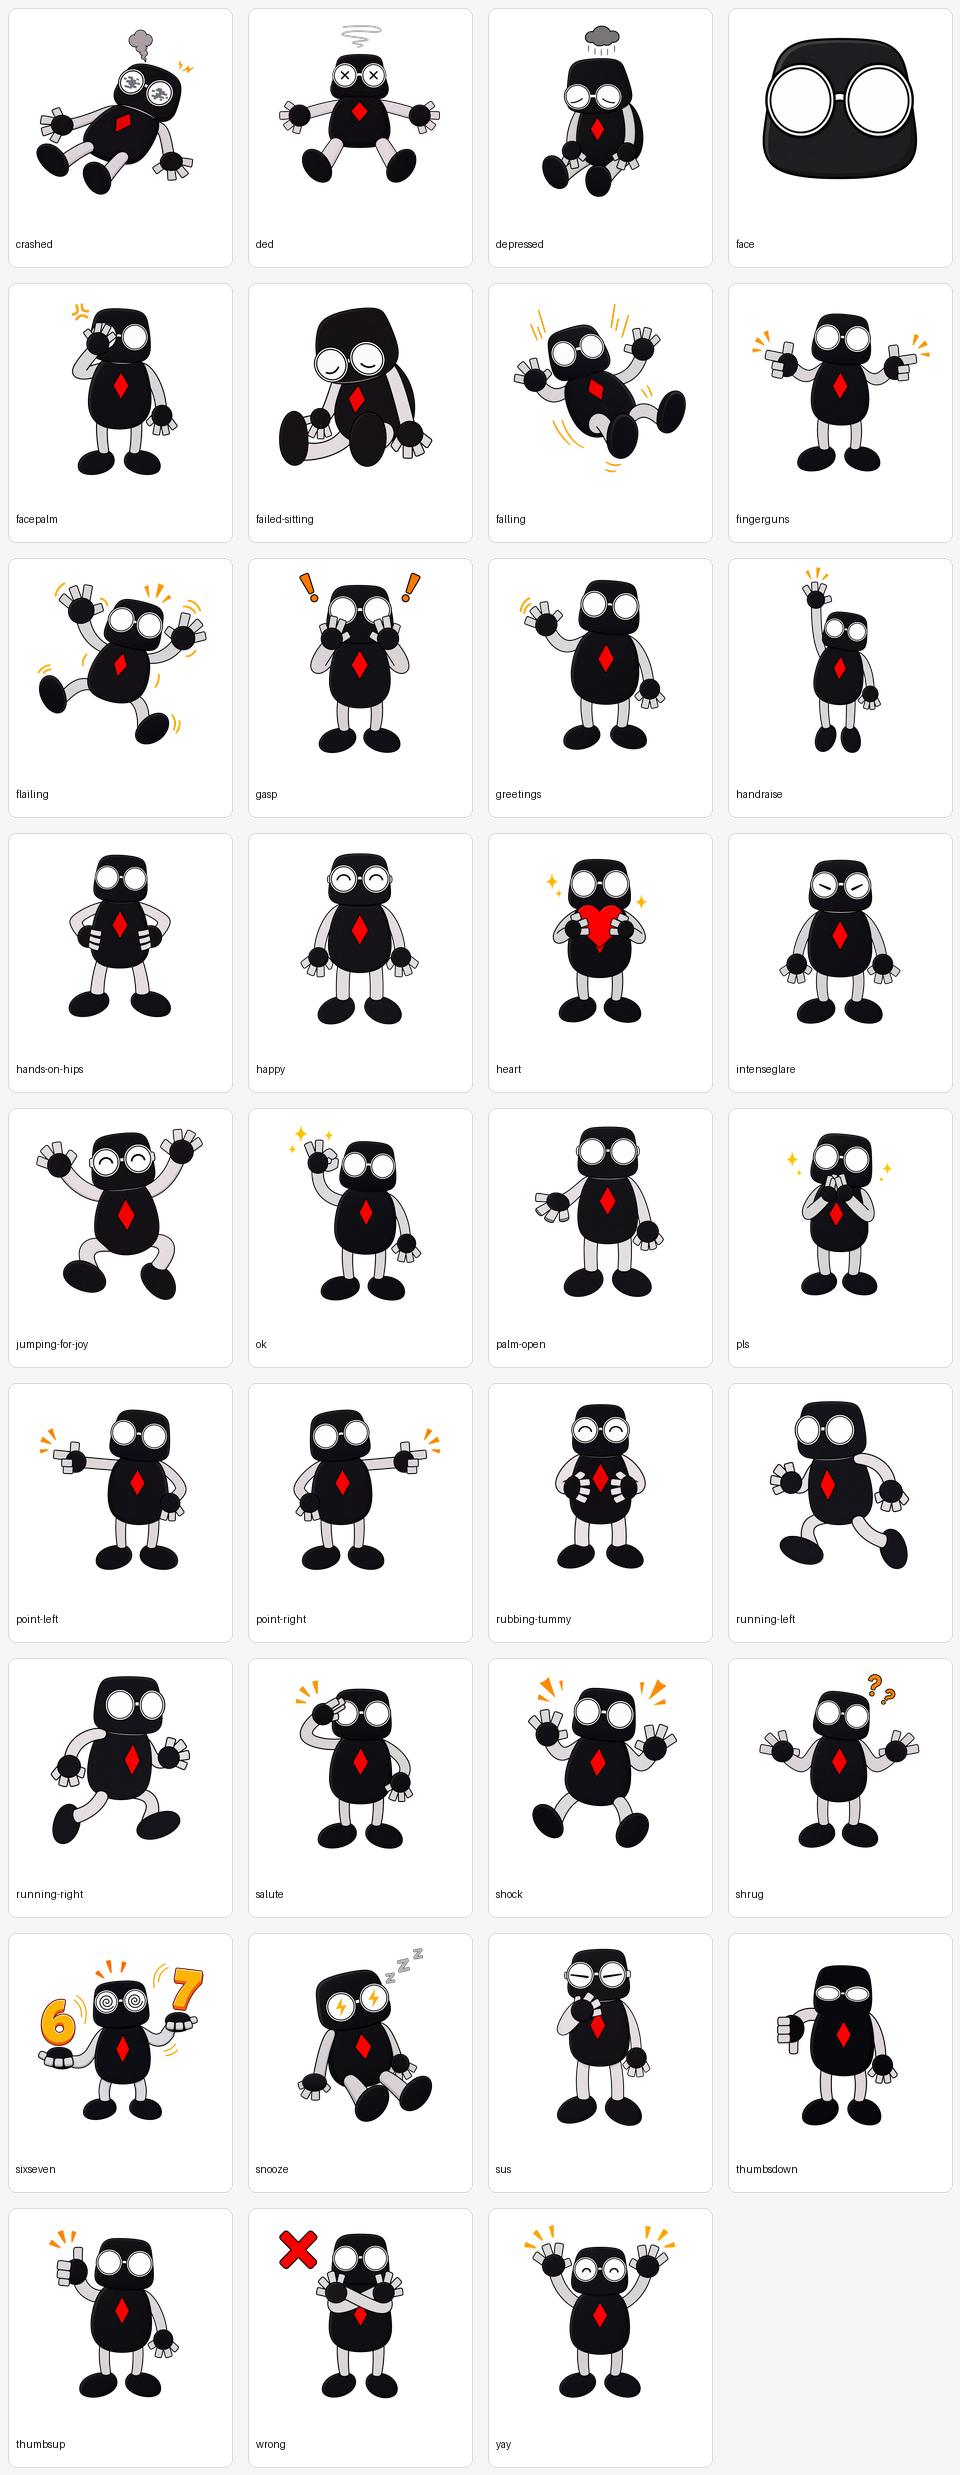
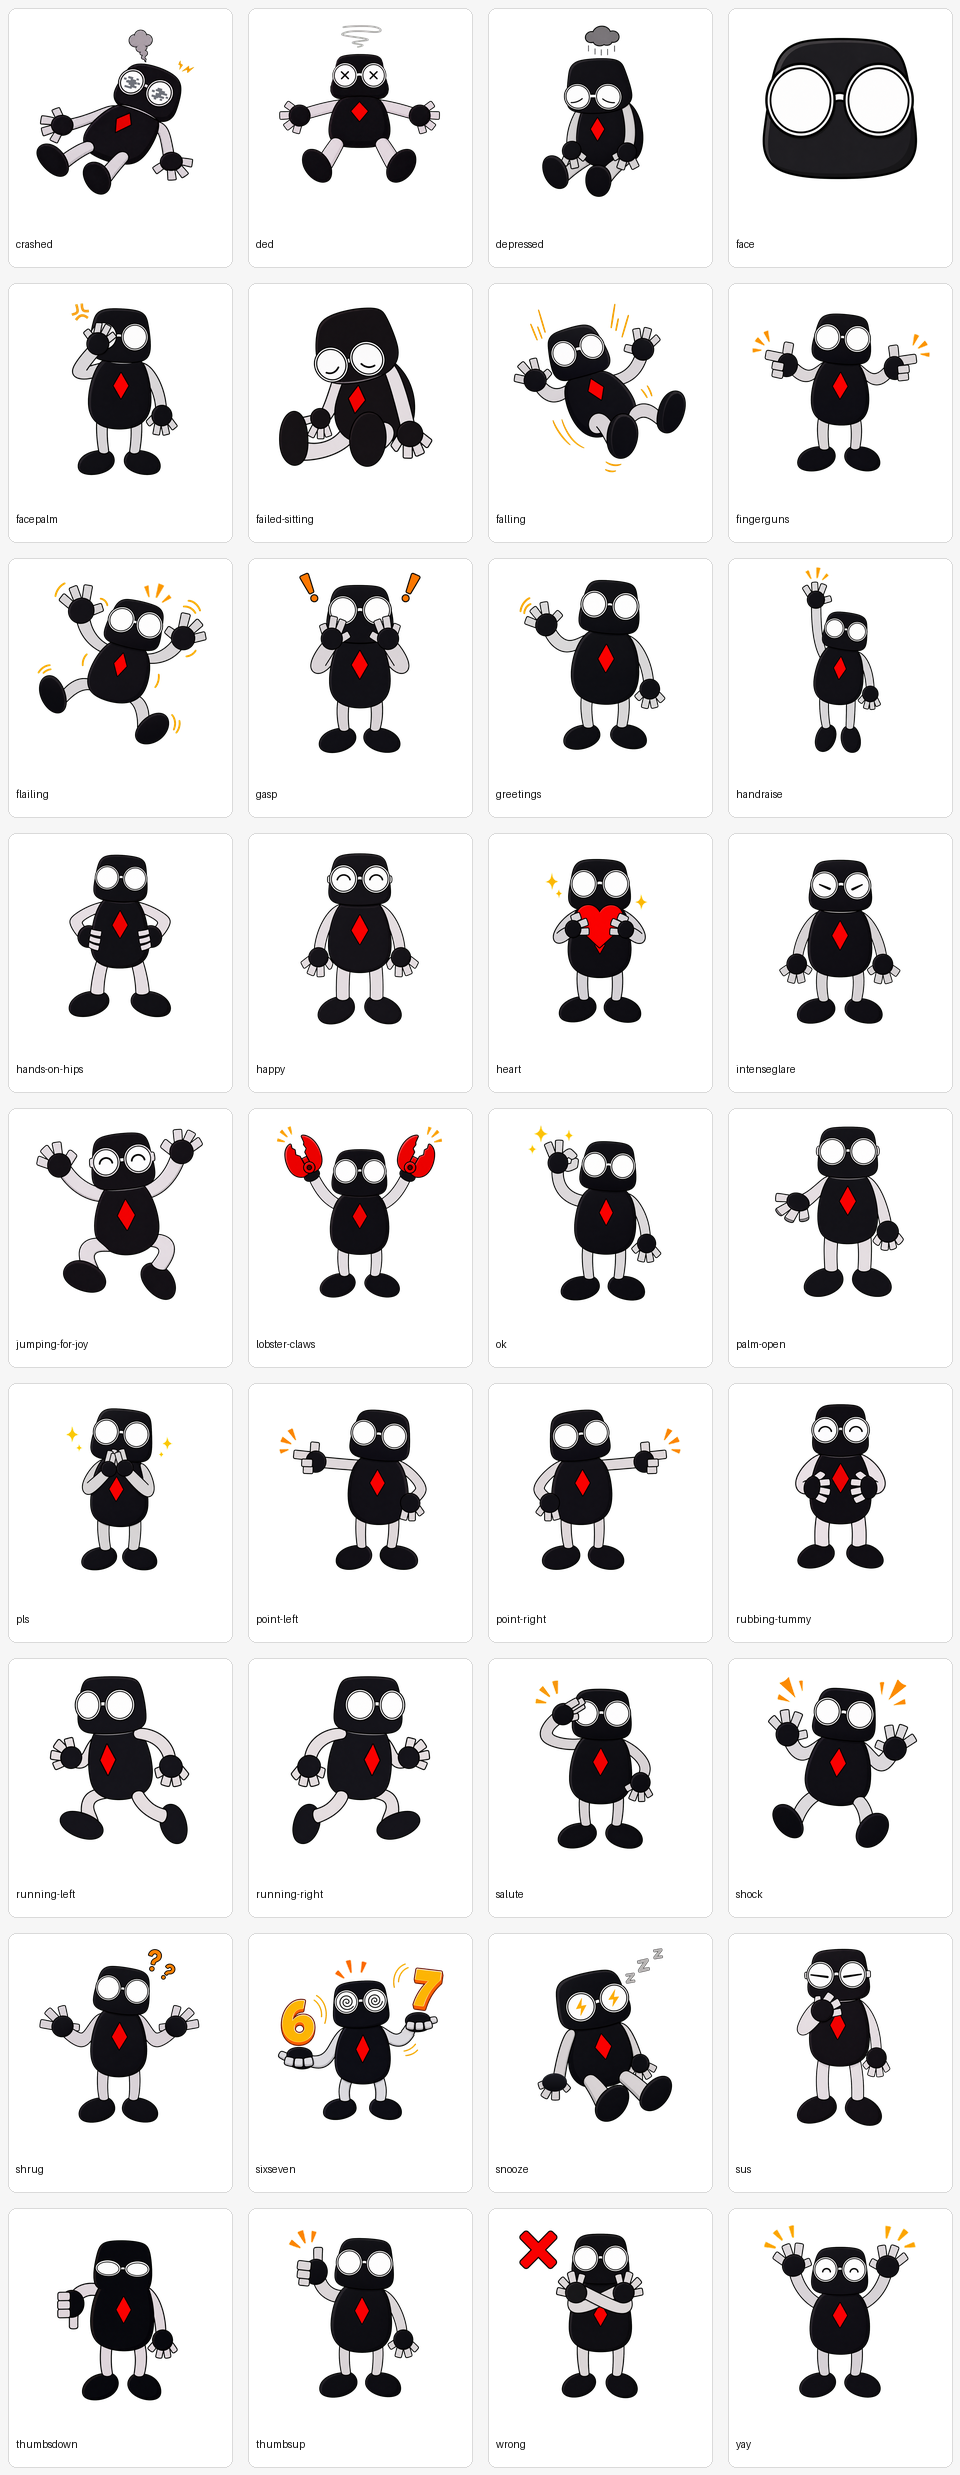
feat: add lobster claw sticker

diff --git a/stickers/README.md b/stickers/README.md
@@ -2,7 +2,7 @@
 
 Use these transparent PNGs as the current locked rectangular-finger T Krobot sticker set.
 
-- Count: 35 stickers.
+- Count: 36 stickers.
 - Size: 1254 x 1254 RGBA PNGs.
 - Catalogue: `stickers/manifest.json` (slug, description, tags, source path).
 - Full overview sheet: `stickers/contact-sheet.png`.
@@ -27,6 +27,7 @@ Use these transparent PNGs as the current locked rectangular-finger T Krobot sti
 - `heart.png` — Holding or presenting a heart. _emotion, social_
 - `intenseglare.png` — Narrow glare slits for stern focus. _emotion, reaction_
 - `jumping-for-joy.png` — Jumping celebration with happy eyes. _motion, happy_
+- `lobster-claws.png` — Raising red mechanical lobster claws to either side. _gesture, fun, mechanical_
 - `ok.png` — OK / acknowledgement hand sign. _gesture, approval_
 - `palm-open.png` — Open palm, expectant hand-off or waiting pose. _gesture, social_
 - `pls.png` — Pleading / please pose. _gesture, emotion_
